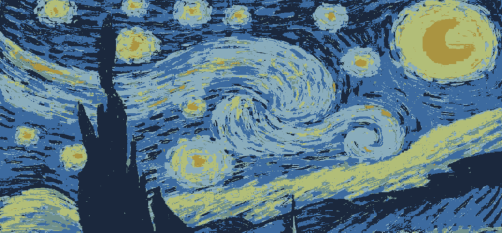
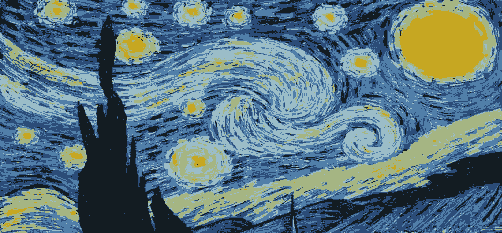
Updated mixture_test.py and images

diff --git a/mixture_tests.py b/mixture_tests.py
@@ -47,7 +47,7 @@ class K_means_test(unittest.TestCase):
         pass
 
     def test_initial_means(self, initial_means):
-        image_file = 'images/bird_color_24.png'
+        image_file = 'images/Starry.png'
         image_values = image_to_matrix(image_file).reshape(-1, 3)
         m, n = image_values.shape
         for k in range(1, 10):
@@ -84,33 +84,33 @@ class K_means_test(unittest.TestCase):
         ]
 
         expected_new_means = [
-            np.array([[0.954027, 0.46203843, 0.22550906],
-                      [0.27400663, 0.28729942, 0.40885332]]),
-            np.array([[0.93051314, 0.88417423, 0.36199632],
-                      [0.4807488, 0.57399386, 0.92681587],
-                      [0.4355678, 0.27258742, 0.29021215]]),
-            np.array([[0.93003845, 0.88480246, 0.35687384],
-                      [0.46192682, 0.55563807, 0.92357367],
-                      [0.4355678, 0.27258742, 0.29021215],
-                      [0.81017733, 0.87135339, 0.95991331]]),
-            np.array([[0.93003845, 0.88480246, 0.35687384],
-                      [0.46192682, 0.55563807, 0.92357367],
-                      [0.62516654, 0.35561383, 0.28908807],
-                      [0.81017733, 0.87135339, 0.95991331],
-                      [0.12563141, 0.13679598, 0.29207909]]),
-            np.array([[0.936167, 0.94245672, 0.33339596],
-                      [0.4587802, 0.55248123, 0.93013507],
-                      [0.62435812, 0.35411939, 0.28870562],
-                      [0.81017733, 0.87135339, 0.95991331],
-                      [0.12563141, 0.13679598, 0.29207909],
-                      [0.88033324, 0.72848517, 0.42817175]])
+            np.array([[0.80551694, 0.69010299, 0.17438512],
+                      [0.33569541, 0.45309059, 0.52275014]]),
+            np.array([[0.82325169, 0.83027274, 0.49915016],
+                      [0.5706171,  0.70232249, 0.72329472],
+                      [0.25756221, 0.35204852, 0.40436148]]),
+            np.array([[0.81913559, 0.82433047, 0.48307031],
+                      [0.56450876, 0.69757995, 0.71964568],
+                      [0.25756221, 0.35204852, 0.40436148],
+                      [0.80715786, 0.88434938, 0.8546841 ]]),
+            np.array([[0.81913559, 0.82433047, 0.48307031],
+                      [0.56450876, 0.69757995, 0.71964568],
+                      [0.37062106, 0.48453161, 0.5107251 ],
+                      [0.80715786, 0.88434938, 0.8546841 ],
+                      [0.09686573, 0.16374335, 0.25318128]]),
+            np.array([[0.89840523, 0.87403922, 0.52888891],
+                      [0.5291115,  0.68206999, 0.76917248],
+                      [0.36574703, 0.480494,   0.51145273],
+                      [0.80699967, 0.8843717,  0.85660891],
+                      [0.09686573, 0.16374335, 0.25318128],
+                      [0.68161022, 0.74824015, 0.55152448]])
         ]
 
-        expected_cluster_sums = [70545, 176588, 177891, 241253, 250122]
+        expected_cluster_sums = [111069, 195753, 197783, 263443, 303357]
 
         k_min = 2
         k_max = 6
-        image_file = 'images/bird_color_24.png'
+        image_file = 'images/Starry.png'
         image_values = image_to_matrix(image_file).reshape(-1, 3)
         m, n = image_values.shape
         for i, k in enumerate(range(k_min, k_max + 1)):
@@ -136,7 +136,7 @@ class K_means_test(unittest.TestCase):
         k_min = 2
         k_max = 6
         image_dir = 'images/'
-        image_name = 'bird_color_24.png'
+        image_name = 'Starry.png'
         image_values = image_to_matrix(image_dir + image_name)
         # initial mean for each k value
         initial_means = [
@@ -178,7 +178,7 @@ class GMMTests(unittest.TestCase):
     def test_gmm_initialization(self, initialize_parameters):
         """Testing the GMM method
         for initializing the training"""
-        image_file = 'images/bird_color_24.png'
+        image_file = 'images/Starry.png'
         image_matrix = image_to_matrix(image_file)
         image_matrix = image_matrix.reshape(-1, 3)
         m, n = image_matrix.shape
@@ -200,7 +200,7 @@ class GMMTests(unittest.TestCase):
     def test_gmm_covariance(self, compute_sigma):
         ''' Testing implementation of covariance matrix
         computation explicitly'''
-        image_file = 'images/bird_color_24.png'
+        image_file = 'images/Starry.png'
         image_matrix = image_to_matrix(image_file)
         image_matrix = image_matrix.reshape(-1, 3)
         m, n = image_matrix.shape
@@ -210,21 +210,26 @@ class GMMTests(unittest.TestCase):
                          [0.3764706,  0.39215687, 0.28627452],
                          [0.2784314,  0.26666668, 0.23921569],
                          [0.16078432, 0.15294118, 0.30588236]])
-        SIGMA = np.array([[[ 0.15471499,  0.11200016,  0.04393127],
-                          [ 0.11200016,  0.22953323,  0.16426138],
-                          [ 0.04393127,  0.16426138,  0.19807944]],
-                         [[ 0.38481037,  0.0204306,  -0.12658471],
-                          [ 0.0204306,   0.06127004,  0.02783406],
-                          [-0.12658471,  0.02783406,  0.12057389]],
-                         [[ 0.13134574,  0.03346525, -0.01198761],
-                          [ 0.03346525,  0.06303026,  0.01652109],
-                          [-0.01198761,  0.01652109,  0.08084702]],
-                         [[ 0.15901856,  0.05194932,  0.00383432],
-                          [ 0.05194932,  0.06501033,  0.02864332],
-                          [ 0.00383432,  0.02864332,  0.08966025]],
-                         [[ 0.21760082,  0.09526375, -0.00290086],
-                          [ 0.09526375,  0.09400968,  0.02967787],
-                          [-0.00290086,  0.02967787,  0.07848203]]])
+        SIGMA = np.array([[[ 0.14120309,  0.13409922,  0.07928442],
+                          [ 0.13409922,  0.13596143,  0.09358084],
+                          [ 0.07928442,  0.09358084,  0.09766863]],
+
+                         [[ 0.44409867, -0.04886889, -0.20206978],
+                          [-0.04886889,  0.08191175,  0.09531033],
+                          [-0.20206978,  0.09531033,  0.18705386]],
+
+                         [[ 0.0587372,   0.05115941,  0.01780809],
+                          [ 0.05115941,  0.06062889,  0.05254236],
+                          [ 0.01780809,  0.05254236,  0.10531252]],
+
+                         [[ 0.0649982,   0.06846332,  0.04307953],
+                          [ 0.06846332,  0.09466889,  0.08934892],
+                          [ 0.04307953,  0.08934892,  0.12813057]],
+
+                         [[ 0.09788626,  0.11438698,  0.0611304 ],
+                          [ 0.11438698,  0.15272257,  0.09879004],
+                          [ 0.0611304,   0.09879004,  0.09711219]]])
+
         self.assertTrue(np.allclose(SIGMA, compute_sigma(image_matrix, MU)),
                         msg="Incorrect covariance matrix.")
         print_success_message()
@@ -239,7 +244,7 @@ class GMMTests(unittest.TestCase):
         prob = float
         """
 
-        image_file = 'images/bird_color_24.png'
+        image_file = 'images/Starry.png'
         image_matrix = image_to_matrix(image_file)
         image_matrix = image_matrix.reshape(-1, 3)
         m, n = image_matrix.shape
@@ -249,12 +254,12 @@ class GMMTests(unittest.TestCase):
                                [-0.09662368, -0.02345659, 0.11303925]])
         # Single Input
         p = prob(image_matrix[0], mean, covariance)
-        self.assertEqual(round(p, 5), 0.57693,
+        self.assertEqual(round(p, 5), 0.98605,
                          msg="Incorrect probability value returned for single input.")
                          
         # Multiple Input
         p = prob(image_matrix[0:5], mean, covariance)
-        self.assertEqual(list(np.round(p, 5)), [0.57693, 0.54750, 0.60697, 0.59118, 0.62980],
+        self.assertEqual(list(np.round(p, 5)), [0.98605, 0.78737, 1.20351, 1.35478, 0.73028],
                          msg="Incorrect probability value returned for multiple input.")
         
         print_success_message()
@@ -297,7 +302,7 @@ class GMMTests(unittest.TestCase):
                                  [-0.09287403, 0.06576895, 0.49017089]]])
         pis = np.array([0.2, 0.2, 0.2, 0.2, 0.2])
         r = E_step(image_matrix, means, covariances, pis, num_components)
-        expected_r_rows = np.array([25262.04787326, 18961.31887563, 14991.17253041, 24783.52164336, 14821.93907735])
+        expected_r_rows = np.array([35184.26013053, 12110.51997221, 19475.93046123, 33416.32214795, 16778.96728808])
         self.assertEqual(round(r.sum()), m,
                          msg="Incorrect responsibility values, sum of all elements must be equal to m.")
         self.assertTrue(np.allclose(r.sum(axis=0), 1),
